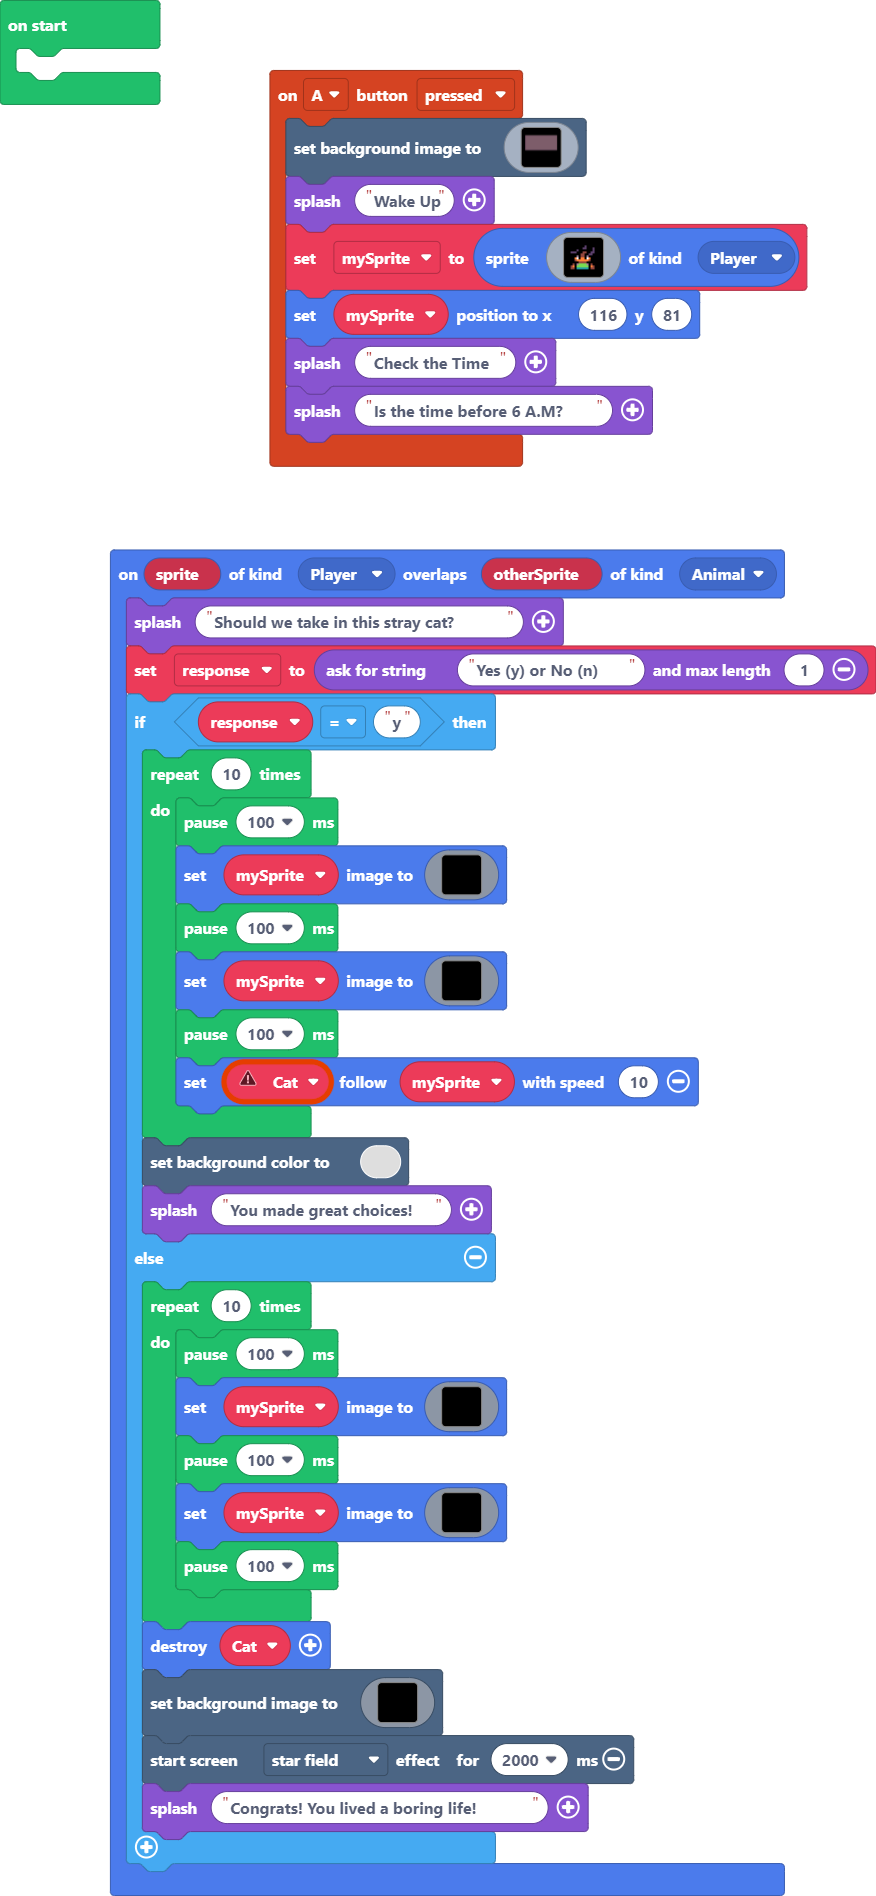
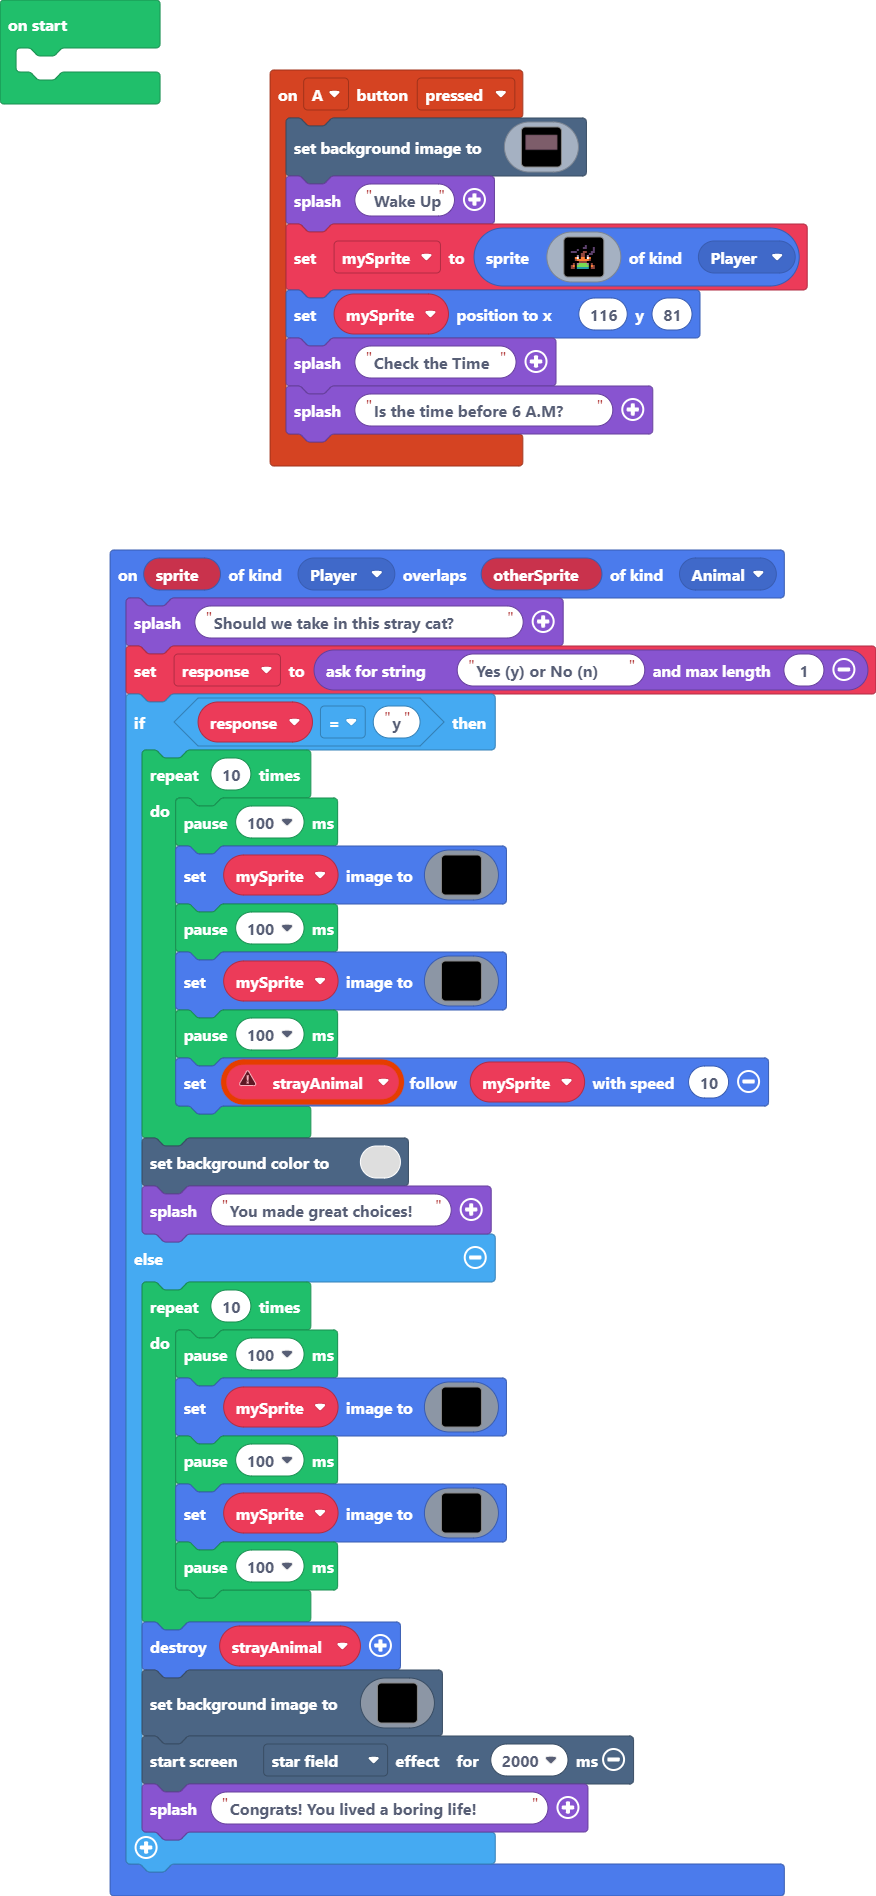
Update main.blocks, main.ts

diff --git a/main.ts b/main.ts
@@ -150,7 +150,7 @@ controller.A.onEvent(ControllerButtonEvent.Pressed, function () {
     game.splash("Is the time before 6 A.M?")
 })
 sprites.onOverlap(SpriteKind.Player, SpriteKind.Animal, function (sprite, otherSprite) {
-    let Cat: Sprite = null
+    let strayAnimal: Sprite = null
     game.splash("Should we take in this stray cat?")
     response = game.askForString("Yes (y) or No (n)", 1)
     if (response == "y") {
@@ -194,7 +194,7 @@ sprites.onOverlap(SpriteKind.Player, SpriteKind.Animal, function (sprite, otherS
                 . . . . . . . . . . . . . . . . 
                 `)
             pause(100)
-            Cat.follow(mySprite, 10)
+            strayAnimal.follow(mySprite, 10)
         }
         scene.setBackgroundColor(0)
         game.splash("You made great choices!")
@@ -240,7 +240,7 @@ sprites.onOverlap(SpriteKind.Player, SpriteKind.Animal, function (sprite, otherS
                 `)
             pause(100)
         }
-        Cat.destroy()
+        strayAnimal.destroy()
         scene.setBackgroundImage(img`
             ................................................................................................................................................................
             ................................................................................................................................................................
